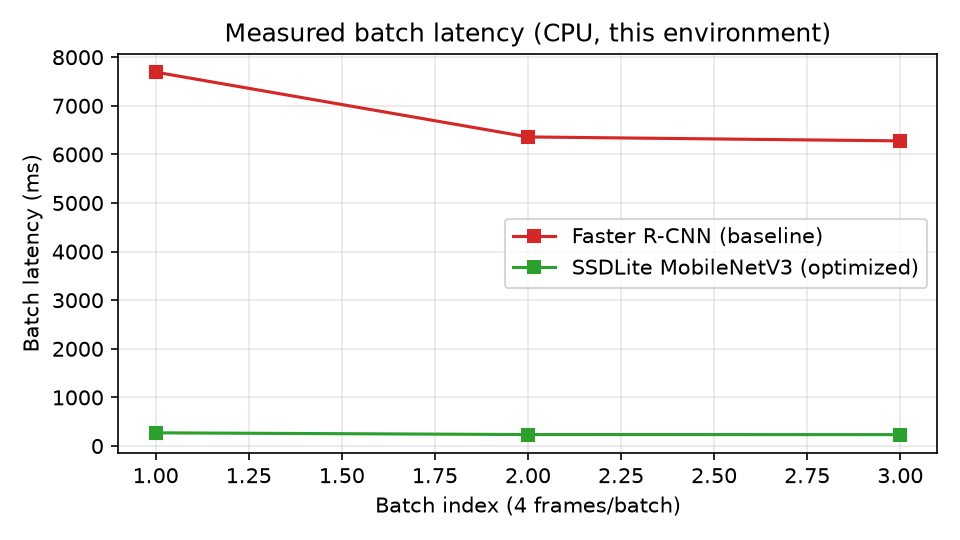
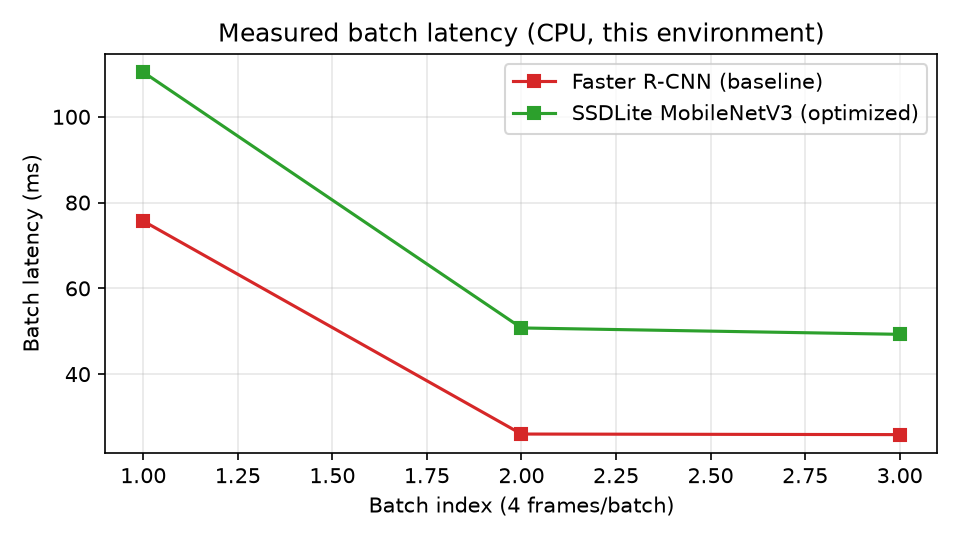
Fix OpenCV HoughLinesP shape bug, remap ports for shared cluster, add GPU benchmark with pretrained weights

diff --git a/inference_service/lane_detection.py b/inference_service/lane_detection.py
@@ -27,7 +27,7 @@ def detect_lanes(frame_bgr: np.ndarray) -> List[Dict[str, float]]:
         return lane_lines
 
     for line in lines[:12]:
-        x1, y1, x2, y2 = line[0]
+        x1, y1, x2, y2 = np.asarray(line).reshape(-1)[:4]
         lane_lines.append(
             {
                 'x1': float(x1),
